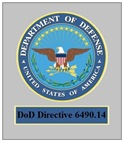
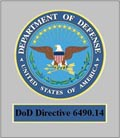
Unify images
maintained use of img border class for images w/o bleed

diff --git a/SuicideData/DoDSER_Reports.htm b/SuicideData/DoDSER_Reports.htm
@@ -115,7 +115,7 @@
                     <tr>
                         <td>
                             <a href="../Docs/Reports/2013_DoDSER_Annual_Report.pdf" target="_blank" onclick="ga('send', 'event', { eventCategory: 'DoDSER Reports Page', eventAction: '2013 DoDSER Annual Report Graphic Click', eventLabel: '2013 DoDSER Annual Report PDF DL'});">
-                                <img class="border" src="../images/DoDSER_2013_TN.PNG" title="DoDSER Report 2013" alt="DoDser_2013">
+                                <img class="border"  src="../images/DoDSER_2013_TN.PNG" title="DoDSER Report 2013" alt="DoDser_2013">
                             </a>
                         </td>
                         <td>
@@ -126,7 +126,7 @@
                     <tr>
                         <td>
                             <a href="../Docs/Reports/2012_DoDSER_Annual_Report.pdf" target="_blank" onclick="ga('send', 'event', { eventCategory: 'DoDSER Reports Page', eventAction: '2012 DoDSER Annual Report Graphic Click', eventLabel: '2012 DoDSER Annual Report PDF DL'});">
-                                <img class="border"  src="../images/DoDSER_2012_TN.jpg" title="DoDSER Report 2012" alt="DoDser_2012" longdesc="DoDSER Report 2012">
+                                <img   src="../images/DoDSER_2012_TN.jpg" title="DoDSER Report 2012" alt="DoDser_2012" longdesc="DoDSER Report 2012">
                             </a>
                         </td>
                         <td>
@@ -137,7 +137,7 @@
                     <tr>
                         <td>
                             <a href="../Docs/Reports/2011_DoDSER_Annual_Report.pdf" target="_blank" onclick="ga('send', 'event', { eventCategory: 'DoDSER Reports Page', eventAction: '2011 DoDSER Annual Report Graphic Click', eventLabel: '2011 DoDSER Annual Report PDF DL'});">
-                                <img class="border"  src="../images/2011_DoDSER_Annual_Report-235px.gif" title="2011 DoDSER Annual Report" longdesc="2011 DoDSER Annual Report" alt="DoDSER Report 2011" />
+                                <img   src="../images/2011_DoDSER_Annual_Report-235px.gif" title="2011 DoDSER Annual Report" longdesc="2011 DoDSER Annual Report" alt="DoDSER Report 2011" />
                             </a>
                         </td>
                         <td>
@@ -148,7 +148,7 @@
                     <tr>
                         <td>
                             <a href="../Docs/Reports/2010_DoDSER_Annual_Report.pdf" target="_blank" onclick="ga('send', 'event', { eventCategory: 'DoDSER Reports Page', eventAction: '2010 DoDSER Annual Report Graphic Click', eventLabel: '2010 DoDSER Annual Report PDF DL'});">
-                                <img class="border"  src="../images/2010_DoDSER_Annual_Report-235px.gif" title="2010 DoDSER Annual Report" longdesc="2010 DoDSER Annual Report" alt="DoDSER Report 2010" />
+                                <img   src="../images/2010_DoDSER_Annual_Report-235px.gif" title="2010 DoDSER Annual Report" longdesc="2010 DoDSER Annual Report" alt="DoDSER Report 2010" />
                             </a>
                         </td>
                         <td>
@@ -159,7 +159,7 @@
                     <tr>
                         <td>
                             <a href="../Docs/Reports/2009_DoDSER_Annual_Report.pdf" target="_blank" onclick="ga('send', 'event', { eventCategory: 'DoDSER Reports Page', eventAction: '2009 DoDSER Annual Report Graphic Click', eventLabel: '2009 DoDSER Annual Report PDF DL'});">
-                                <img class="border"  src="../images/2009_DoDSER_Annual_Report-235px.gif" title="DoDSER Annual Report 2009" alt="2009 DoDSER Report" />                                
+                                <img   src="../images/2009_DoDSER_Annual_Report-235px.gif" title="DoDSER Annual Report 2009" alt="2009 DoDSER Report" />                                
                             </a>                            
                         </td>
                         <td>
@@ -170,7 +170,7 @@
                     <tr>
                         <td>
                             <a href="../Docs/Reports/2008_DoDSER_Annual_Report.pdf" target="_blank" onclick="ga('send', 'event', { eventCategory: 'DoDSER Reports Page', eventAction: '2008 DoDSER Annual Report Graphic Click', eventLabel: '2008 DoDSER Annual Report PDF DL'});">
-                                <img class="border"  src="../images/2008_DoDSER_Annual_Report-235px.gif" title="2008 DoDSER Annual Report" alt="2008 DoDSER Report" />
+                                <img   src="../images/2008_DoDSER_Annual_Report-235px.gif" title="2008 DoDSER Annual Report" alt="2008 DoDSER Report" />
                             </a>
                         </td>
                         <td>

diff --git a/SuicideData/quarterly_reports.htm b/SuicideData/quarterly_reports.htm
@@ -118,7 +118,7 @@
                     <tr>
                         <td>
                             <a href="../Docs/Reports/DoD%20Quarterly%20Suicide%20Report%20CY2014%20Q2.pdf" target="_blank" onclick="ga('send', 'event', { eventCategory: 'Quarterly Reports Page', eventAction: '2014 Q2 Report Graphic Click', eventLabel: '2014 Q2 Report PDF DL'});">
-                                <img class="border" alt="DoD Quarterly Suicide Report CY2014 Q2" src="../images/DoD_Quarterly_Suicide_Report_CY2014_Q2.png">
+                                <img alt="DoD Quarterly Suicide Report CY2014 Q2" src="../images/DoD_Quarterly_Suicide_Report_CY2014_Q2.png">
                             </a>
                         </td>
                         <td>
@@ -130,7 +130,7 @@
                     <tr>
                         <td>
                             <a href="../Docs/Reports/DoD%20Quarterly%20Suicide%20Report%20CY2014%20Q1.pdf" onclick="ga('send', 'event', { eventCategory: 'Quarterly Reports Page', eventAction: '2014 Q1 Graphic Report', eventLabel: '2014 Q1 Report PDF DL' });">
-                                <img class="border" alt="DoD Quarterly Suicide Report CY2014 Q1" src="../images/DoD-Quarterly-Suicide-Report-CY2014-Q1-THUMBNAIL.gif">
+                                <img alt="DoD Quarterly Suicide Report CY2014 Q1" src="../images/DoD-Quarterly-Suicide-Report-CY2014-Q1-THUMBNAIL.gif">
                             </a>
                         </td>
                         <td>
@@ -142,7 +142,7 @@
                     <tr>
                         <td>
                             <a href="../Docs/Reports/DoD%20Quarterly%20Suicide%20Report%20CY2013%20Q4.pdf" onclick="ga('send', 'event', { eventCategory: 'Quarterly Reports Page', eventAction: '2013 Q4 Report Graphic Click', eventLabel: '2013 Q4 Report PDF DL'});">
-                                <img class="border" src="../images/DOD_Quarterly_Suicide_Report_CY2013_Q4.jpg" title="DoD Quarterly Suicide Report 2013" longdesc="DoD Quarterly Suicide Report 2013" alt="2013 Quarterly Report">
+                                <img src="../images/DOD_Quarterly_Suicide_Report_CY2013_Q4.jpg" title="DoD Quarterly Suicide Report 2013" longdesc="DoD Quarterly Suicide Report 2013" alt="2013 Quarterly Report">
                             </a>
                         </td>
                         <td>

diff --git a/DSPOstylesheet_mobile.css b/DSPOstylesheet_mobile.css
@@ -1,0 +1,204 @@
+@media only screen and (min-width:600px) and (max-width:1075px) 
+{
+body
+{
+width:100%;
+margin:0 0 0 0;
+font-size:85%;
+}
+
+#head
+{
+width:98%;
+height:125px;
+margin: 1% 1%;
+}
+#head .left
+{
+height:125px;
+width:55%;
+}
+
+#head .right
+{
+width:220px;
+}
+}
+
+
+@media only screen and (max-width: 600px) 
+{
+body
+{
+width:100%;
+margin:0 0 0 0;
+}
+
+#head
+{
+height:205px;
+}
+#head .left
+{
+border-top:5px solid #275078;
+height:85px;
+width:98%;
+padding:1% 0 0 2%;
+
+}
+#head a.logo 
+{
+height:100%;
+}
+
+#head h1.left
+{
+font-size:1.6em;
+width:100%;
+
+border:none;
+}
+#head .right
+{
+width:100%;
+float:left;
+height:53%;
+padding-bottom:2%;
+}
+#head a.crisis
+{
+width:100%;
+float:left;
+}
+#head a.crisis img
+{
+height:100%;
+width:auto;
+}
+#head a.chat
+{
+float:left;
+}
+
+#nav{
+	margin: 2% 0 0 0;
+}
+#nav li{
+margin:0;
+	width:100%;
+	padding:.2% 0 .2% 0;
+}
+#nav li:hover ul{ /* Display the dropdown on hover */
+
+position:relative;
+}
+
+.left
+{
+width:100%;
+}
+#links
+{
+position: relative;
+}
+#links h2 
+{
+padding:.5em;
+}
+#links > h2 > a
+{
+margin: .2em auto 0 auto;
+width:50px;
+text-align: left;
+text-indent: -9999px;
+background-color: #616161;
+
+}
+#links > h2 >a:before,
+#links > h2 >a:after
+{
+position: absolute;
+border: 2px solid #fff;
+top: 35%;
+left: 25%;
+right: 25%;
+content: '';
+}
+#links > h2 >a:after
+{
+top: 60%;
+}
+#links:not( :target ) > h2 > a:first-of-type,
+#links:target > h2 > a:last-of-type
+{
+display: block;
+}
+#links > ul
+{
+height: auto;
+display: none;
+position: absolute;
+left: 0;
+right: 0;
+}
+#links:target > ul
+{
+display: block;
+position:relative;
+}
+#nav > ul > li
+{
+width: 100%;
+float: none;
+}
+ /* second level */
+ #links li ul
+{
+position: static;
+}
+
+.left img.fitness {
+    padding: 2% 0 2%;
+    max-height: 30%;
+    max-width: 30%;
+    visibility: hidden;
+    position: absolute;
+}
+
+#DLlink
+{
+    position: absolute;
+    visibility: hidden;
+}
+#videosection {
+    overflow: scroll;   
+
+}
+.right
+{
+float:left;
+width:100%;
+}
+#who, #mission, #vision
+{
+float:left;
+width:auto;
+padding:2.5%;
+background: #ffffff;
+opacity: 0.8;
+}
+.maincontent {
+min-height:0;
+}
+
+.contenttable p {
+font-size:90%;
+}
+
+
+footer img {
+    height: 10%;
+    width: 10%;
+}
+
+}

diff --git a/Resources/crisis_line.htm b/Resources/crisis_line.htm
@@ -109,7 +109,7 @@
                     <tr>
                         <td>
                             <a href="../Docs/MCL_brochure_11-30.pdf" target="_blank" onclick="ga('send', 'event', { eventCategory: 'MCL Page', eventAction: 'MCL Brochure Graphic Click', eventLabel: 'MCL Brochure DL'});">
-                                <img src="../images/crisis1.jpg" title="Military Crisis Line Brochure" longdesc="Military Crisis Line Brochure" alt="MCL Brochure" />
+                                <img class="border" src="../images/crisis1.jpg" title="Military Crisis Line Brochure" longdesc="Military Crisis Line Brochure" alt="MCL Brochure" />
 
                             </a>
                         </td>
@@ -121,7 +121,7 @@
                     <tr>
                         <td>
                             <a href="../Docs/MCL_DoD%20poster%20[11x17][1].pdf" target="_blank" onclick="ga('send', 'event', { eventCategory: 'MCL Page', eventAction: 'MCL Poster Graphic Click', eventLabel: 'MCL Poster DL'});">
-                                <img src="../images/crisis2.jpg" title="Military Crisis Line Poster" longdesc="Military Crisis Line Poster" alt="MCL Poster" />
+                                <img class="border" src="../images/crisis2.jpg" title="Military Crisis Line Poster" longdesc="Military Crisis Line Poster" alt="MCL Poster" />
                                 
                             </a>
                         </td>
@@ -134,7 +134,7 @@
                     <tr>
                         <td>
                             <a href="../Docs/MCL_FactSheet.pdf" target="_blank" onclick="ga('send', 'event', { eventCategory: 'MCL Page', eventAction: 'MCL FactSheet Graphic Click', eventLabel: 'MCL FactSheet DL'});">
-                                <img border="0" src="../images/crisis3.jpg" title="Military Crisis Line Fact Sheet" longdesc="Military Crisis Line Fact Sheet" alt="MCL Fact Sheet" />
+                                <img class="border" src="../images/crisis3.jpg" title="Military Crisis Line Fact Sheet" longdesc="Military Crisis Line Fact Sheet" alt="MCL Fact Sheet" />
                                 
                             </a>
                         </td>

diff --git a/Resources/guides_reports.htm b/Resources/guides_reports.htm
@@ -121,7 +121,7 @@
                     <tr>
                         <td>
                             <a href="../Docs/Reports/DSPO_2012_Annual_Report_MARCH_2013_FINAL.pdf" target="_blank" onclick="ga('send', 'event', { eventCategory: 'Guides Reports Page', eventAction: 'DSPO 2012 Annual Report Graphic Click', eventLabel: 'DSPO 2012 Annual Report DL'});">
-                                <img src="../images/2012AnnualReport.jpg" />
+                                <img class="border" src="../images/2012AnnualReport.jpg" />
                             </a>
                         </td>
                         <td>
@@ -134,7 +134,7 @@
                     <tr>
                         <td>
                             <a href="../Docs/Family%20Guide.DSPO.2014.pdf" target="_blank" onclick="ga('send', 'event', { eventCategory: 'Guides Reports Page', eventAction: 'Families Guide Graphic Click', eventLabel: 'Families Guide DL'});">
-                                <img src="../images/FamilyGuide.jpg" />
+                                <img src="../images/GUIDES_Family-Guide.gif" />
                             </a>
 
                         </td>
@@ -150,7 +150,7 @@
                     <tr>
                         <td>
                             <a href="../Docs/PostventionPlan.ReserveComponents.pdf" target="_blank" onclick="ga('send', 'event', { eventCategory: 'Guides Reports Page', eventAction: 'Postvention Graphic Click', eventLabel: 'Postvention DL'});">
-                                <img src="../images/Postvention.jpg" />
+                                <img src="../images/PostventionPlan.gif" />
                             </a>
                         </td>
                         <td>

diff --git a/SuicideData/standardized_data.htm b/SuicideData/standardized_data.htm
@@ -107,14 +107,14 @@
     <!-- end of add -->
     <div class="right">
         <div class="maincontent">
-            <h1>Standardized Data and Reporting</h1>
+            <h1>Standardized Data and Reporting</h1><br>
             <table class="contenttable">
                     <tr>
-                        <th>
+						<td>
                             <a href="../Docs/Standardized_DoD_Suicide_Data_and_Reporting.pdf" onclick="ga('send', 'event', { eventCategory: 'Standardized Data Page', eventAction: 'DoD Suicide Data Graphic Report', eventLabel: 'DoD Suicide Data Report PDF DL' });">
-                                <img src="../images/standardized_reporting.jpg" title="Department of Defense Standarized Data Report" longdesc="DoD Standardized Data Reports" alt="Standardized Data Report" />
+                                <img class="border" src="../images/standardized_reporting.jpg" title="Department of Defense Standarized Data Report" longdesc="DoD Standardized Data Reports" alt="Standardized Data Report" />
                             </a>
-                        </th>
+						</td>
                         <td>
                             <a href="../Docs/Standardized_DoD_Suicide_Data_and_Reporting.pdf" onclick="ga('send', 'event', { eventCategory: 'Standardized Data Page', eventAction: 'DoD Suicide Data Text Report', eventLabel: 'DoD Suicide Data Report PDF DL' });">Standardized Department of Defense Suicide Data and Reporting </a>
                         </td>

diff --git a/Resources/vets4warriors.htm b/Resources/vets4warriors.htm
@@ -122,7 +122,7 @@
                     <tr>
                         <td>
                             <a href="../Docs/Vets4Warriors/FINAL%20APPROVED_01_V4W_Factsheet_13AUG2014_Blue.pdf" target="_blank" onclick="ga('send', 'event', { eventCategory: 'Vets4Warrior Page', eventAction: 'V4W Factsheet Graphic Click', eventLabel: 'V4W Factsheet'});">
-                                <img src="../images/FactSheet-Thumbnail380px-19AUG2014.jpg">
+                                <img class="border" src="../images/FactSheet-Thumbnail380px-19AUG2014.jpg">
                             </a>
                         </td>
                         <td>

diff --git a/DSPOstylesheet.css b/DSPOstylesheet.css
@@ -7,7 +7,7 @@
 
 html {
     font-family: arial;
-    background: url(../images/DSPOBackground4_MostSimilar-2.gif)no-repeat fixed;
+    background: url(images/DSPOBackground4_MostSimilar-2.gif)no-repeat fixed;
     -webkit-background-size: cover;
     -moz-background-size: cover;
     -o-background-size: cover;
@@ -416,8 +416,7 @@ table.contenttable {
 	width:95%;
 	}
 	
-	.contenttable td  img.border {
-	width:94.25%;
+	.contenttable td a img.border {
 	color:black;
 	border-width: thin;
     border-style:groove;
